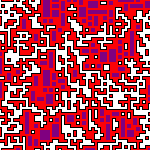
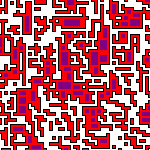
Added tile weighting

diff --git a/src/wave_function.rs b/src/wave_function.rs
@@ -2,7 +2,10 @@ use fixedbitset::FixedBitSet;
 use indicatif::{ProgressBar, ProgressStyle};
 use ndarray::Array2;
 use photo::{ALL_DIRECTIONS, Direction};
-use rand::{Rng, prelude::IndexedRandom};
+use rand::{
+    Rng,
+    distr::{Distribution, weighted::WeightedIndex},
+};
 use std::collections::VecDeque;
 
 use crate::{Cell, Map, Rules};
@@ -102,48 +105,51 @@ impl<'a> WaveFunction<'a> {
     }
 
     /// Collapse into a concrete Map.
-    pub fn collapse<R: Rng>(&mut self, rng: &mut R) -> Map {
+    pub fn collapse<R: Rng>(&mut self, rng: &mut R, weights: &[usize]) -> Map {
+        assert!(weights.len() == self.rules.len());
+
         let (height, width) = self.possibilities.dim();
-        let total_cells = (height * width) as u64;
-        // Count how many are already fixed
+        let total = (height * width) as u64;
         let mut fixed = self
             .possibilities
             .iter()
-            .filter(|bits| bits.count_ones(..) == 1)
+            .filter(|b| b.count_ones(..) == 1)
             .count() as u64;
 
-        // create and style the bar
-        let pb = ProgressBar::new(total_cells);
+        let pb = ProgressBar::new(total);
         pb.set_position(fixed);
         pb.set_style(
             ProgressStyle::default_bar()
                 .template("[{elapsed_precise}] {bar:40.cyan/blue} {pos}/{len} ({eta})")
-                .expect("Failed to construct progress bar")
+                .unwrap()
                 .progress_chars("##-"),
         );
 
-        // main WFC loop
         loop {
             self.propagate_ac3();
 
-            // pick next cell with >1 options
-            let mut best: Option<((usize, usize), usize)> = None;
+            // pick lowest‑entropy cell
+            let mut next: Option<((usize, usize), usize)> = None;
             for ((y, x), bits) in self.possibilities.indexed_iter() {
-                let count = bits.count_ones(..);
-                if count > 1 {
-                    if best.as_ref().map_or(true, |&(_, c)| count < c) {
-                        best = Some(((y, x), count));
-                    }
+                let c = bits.count_ones(..);
+                if c > 1 && next.as_ref().map_or(true, |&(_, old)| c < old) {
+                    next = Some(((y, x), c));
                 }
             }
 
-            if let Some(((y, x), _)) = best {
-                // collapse it
+            if let Some(((y, x), _)) = next {
+                // gather choices & their weights
                 let choices: Vec<usize> = self.possibilities[(y, x)].ones().collect();
-                let &pick = choices.choose(rng).unwrap();
-                let mut mask = FixedBitSet::with_capacity(self.rules.len());
-                mask.insert(pick);
-                self.possibilities[(y, x)] = mask;
+                let w: Vec<f64> = choices.iter().map(|&i| weights[i] as f64).collect();
+                // build weighted distribution
+                let dist = WeightedIndex::new(&w).unwrap();
+                let pick = choices[dist.sample(rng)];
+
+                // fix it
+                let mut m = FixedBitSet::with_capacity(self.rules.len());
+                m.insert(pick);
+                self.possibilities[(y, x)] = m;
+
                 fixed += 1;
                 pb.inc(1);
             } else {
@@ -153,11 +159,11 @@ impl<'a> WaveFunction<'a> {
 
         pb.finish_with_message("Done!");
 
-        // build final Map
-        let cells = Array2::from_shape_fn((height, width), |i| {
-            let mut ones = self.possibilities[i].ones();
-            match (ones.next(), ones.next()) {
-                (Some(n), None) => Cell::Fixed(n),
+        // reconstruct final Map
+        let cells = Array2::from_shape_fn((height, width), |idx| {
+            let mut iter = self.possibilities[idx].ones();
+            match (iter.next(), iter.next()) {
+                (Some(i), None) => Cell::Fixed(i),
                 _ => Cell::Wildcard,
             }
         });

diff --git a/examples/generate_map.rs b/examples/generate_map.rs
@@ -59,7 +59,8 @@ fn main() {
     let mut rng = rng();
 
     // retry loop
-    let collapsed_map = WaveFunction::new(&template, tileset.rules()).collapse(&mut rng);
+    let collapsed_map =
+        WaveFunction::new(&template, tileset.rules()).collapse(&mut rng, &tileset.weights());
 
     let img = collapsed_map.render(&tileset);
     img.save(&config.output_filepath)

diff --git a/src/tileset.rs b/src/tileset.rs
@@ -166,6 +166,10 @@ impl Tileset {
         &self.tiles
     }
 
+    pub fn weights(&self) -> Vec<usize> {
+        self.tiles.iter().map(|tile| tile.1).collect::<Vec<_>>()
+    }
+
     pub fn rules(&self) -> &Rules {
         &self.rules
     }
